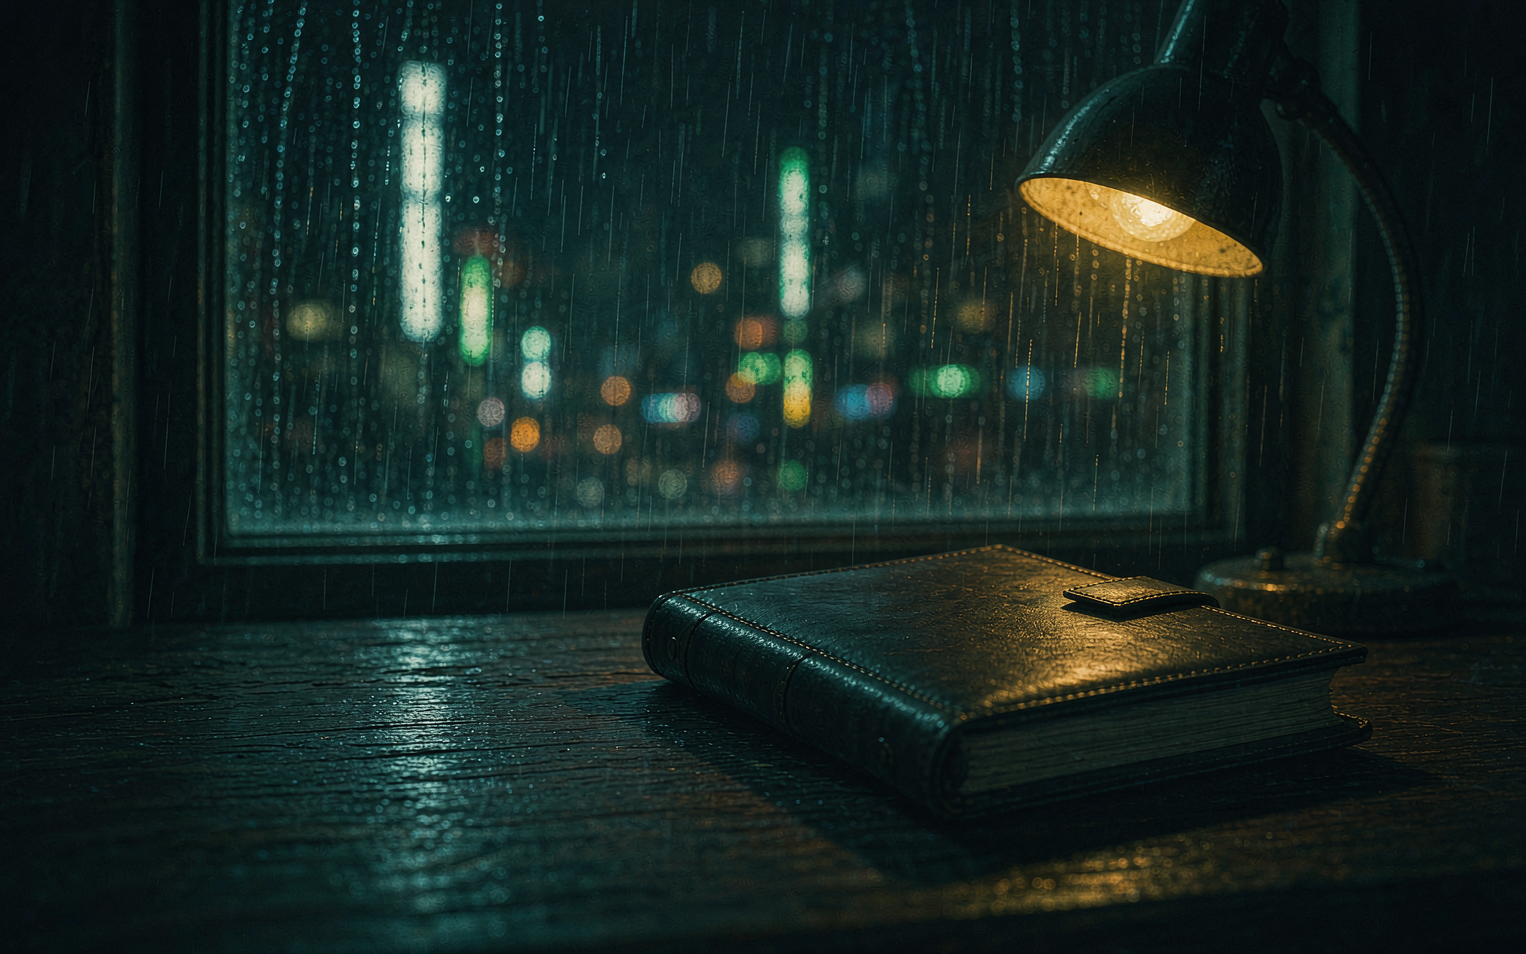
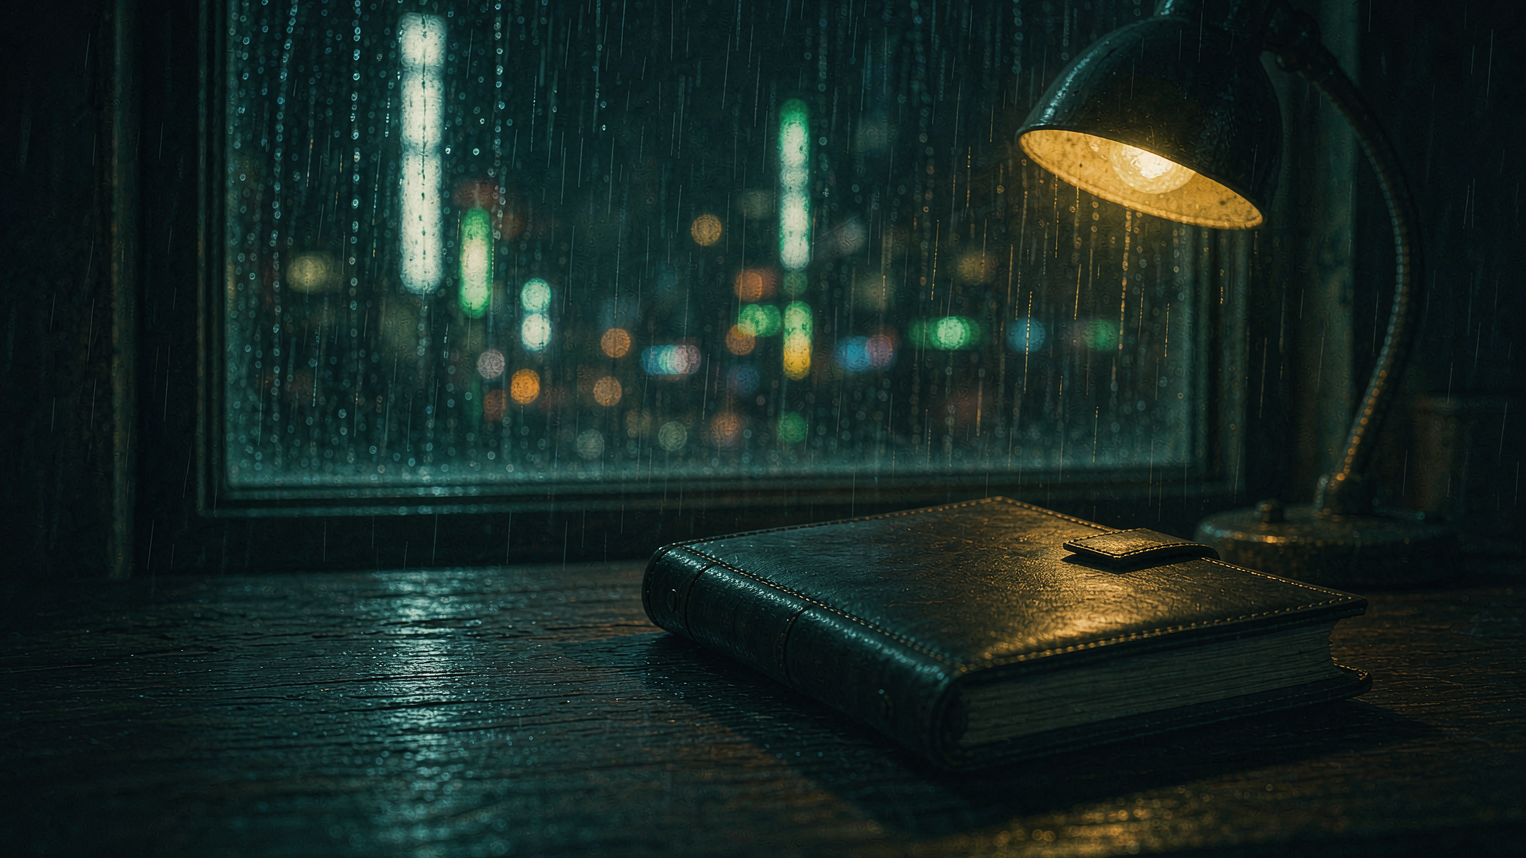
统一到 16:9：视口改 1280x720 + 14 张图全部裁成 16:9
现状原来是混的：
  图 7 张 16:10 / 6 张 16:9；游戏视口 1280x800（16:10）—— 两头都不一致

改成：
  project.godot: viewport 1280x720、window 1280x720（16:9）
  14 张背景图全部裁成 16:9（从中间取，保上下对称）

意外发现：**代码本来就按 16:9 写的** ——
launch.gd / prologue.gd 的缩放基准都是 size.y / 720.0，
room.gd 的尺寸是 720x405（正好 16:9），main.gd 一个写死尺寸都没有。
只有 project.godot 那个 800 是掉队的，所以 UI 一行没改就通过了。

⚠ 裁图会移动画面内容：热区的 UV 是按旧图算的就得重算。
本次只有序章包裹页一处（图从 992 裁到 892，顶部去掉 50px）：
  [0.43, 0.68, 0.14, 0.09] -> [0.43, 0.700, 0.14, 0.100]
主角房间那张只裁了 1px，热区不受影响。

图改完已跑 --import（不跑游戏里读的还是旧图）。
ART_ASSETS.md 的「待办」那节改成「已统一」，并记下这次的裁切经验。

冒烟测试 81 项全过，截图按 1280x720 重出，排版与热区都验过。

diff --git a/docs/ART_ASSETS.md b/docs/ART_ASSETS.md
@@ -18,29 +18,24 @@
 | 命名 | 全小写 + 下划线，见 §五 |
 | 文件位置 | 场景图 `assets/backgrounds/`，立绘 `assets/portraits/` |
 
-### ⚠ 为什么规定 16:9，而游戏现在不是
+### 为什么是 16:9（已统一，2026-09-16）
 
-现状有两处不一致，都必须收敛：
+统一之前有两处不一致，现在都收敛了：
 
-**1. 图的比例不统一** —— 现有 14 张里 **8 张 16:10、6 张 16:9**。
+**1. 图的比例** —— 原本 7 张 16:10、6 张 16:9 混着。
+已全部裁成 16:9（从中间取，上下对称；主体偏上的从底部多裁）。
 
-游戏用的是 `STRETCH_KEEP_ASPECT_COVERED`，两种都能铺满，只是**都会裁边**——
-16:10 的图在 16:9 窗口上被裁掉上下，构图就废了。**必须统一。**
+**2. 游戏视口** —— 原本是 （16:10）。
+已改成 ****，窗口也改成 。
 
-**2. 游戏视口是 16:10** —— `project.godot` 里是 `1280 × 800`。
+> 有意思的是：**代码本来就按 16:9 写的**—— /  的缩放基准
+> 都是 ， 的尺寸是 （正好 16:9），
+>  一个写死的尺寸都没有。**只有  那个 800 是掉队的。**
+> 所以改完 UI 一行都没动，直接通过。
 
-> **建议**：改成 `1280 × 720`（16:9），窗口也改 1280×720。
-> 这样画面、图、绝大多数显示器三者一致，录屏/直播也不会有黑边。
-> **代价**：UI 布局是按 800 高度调的，改完必须复验一遍
-> （跑 `PASS (81 checks)` + 重新出截图看排版）。
->
-> 在改视口之前，**新图一律先按 16:9 出**——16:9 的图在 16:10 视口上只是上下各裁一点，
-> 反过来（16:10 的图放进 16:9）会裁掉更多。
-
-### 待办：把 8 张 16:10 的图裁成 16:9
-
-| 文件 | 现在 | 处理 |
-| --- | --- | --- |
+**裁图会移动画面内容**：如果某个热区的 UV 是按旧图算的，必须重算。
+（本次只有序章包裹页那一处： → 。）
+--- | --- | --- |
 | `black_page_launch_v1.png` | 1526×954 | 裁成 1526×858 |
 | `black_page_prologue_door_package_v1.png` | 1586×992 | 裁成 1586×892 |
 | `black_page_prologue_door_v1.png` | 1526×954 | 裁成 1526×858 |
@@ -99,20 +94,20 @@ im.crop((0, 0, w, round(w * 9 / 16))).save(dst, "PNG")   # 从顶部取
 
 | 文件 | 尺寸 | 比例 | 用在哪 |
 | --- | --- | --- | --- |
-| `black_page_launch_v1.png` | 1526×954 | 16:10 ⚠ | 启动页背景 |
-| `black_page_room_v1.png` | 1672×941 | 16:9 | 主角出租屋·夜（最常看到的场景） |
-| `black_page_room_morning_v1.png` | 1672×941 | 16:9 | 主角出租屋·清晨（序章尾声） |
-| `black_page_scene_monitor.png` | 1526×954 | 16:10 ⚠ | 显示器：查新闻 / 公开档案 |
-| `black_page_scene_archive.png` | 1526×954 | 16:10 ⚠ | 档案室：查旧身份档案 |
-| `black_page_scene_phone.png` | 1526×954 | 16:10 ⚠ | 手机：聊天 / 通话 / 打捞语音 |
+| `black_page_launch_v1.png` | 1526×858 | 16:9 | 启动页背景 |
+| `black_page_room_v1.png` | 1672×940 | 16:9 | 主角出租屋·夜（最常看到的场景） |
+| `black_page_room_morning_v1.png` | 1672×940 | 16:9 | 主角出租屋·清晨（序章尾声） |
+| `black_page_scene_monitor.png` | 1526×858 | 16:9 | 显示器：查新闻 / 公开档案 |
+| `black_page_scene_archive.png` | 1526×858 | 16:9 | 档案室：查旧身份档案 |
+| `black_page_scene_phone.png` | 1526×858 | 16:9 | 手机：聊天 / 通话 / 打捞语音 |
 | `black_page_scene_badge.png` | 1536×864 | 16:9 | 员工证特写：核对物流公司员工证 |
 | `black_page_scene_photo.png` | 1536×864 | 16:9 | 旧合照：查阅晨曦福利院合照 |
 | `black_page_scene_meeting.png` | 1536×864 | 16:9 | 会面地点：赴约听许妍证词 |
 | `black_page_scene_interview.png` | 1536×864 | 16:9 | 问询室：向林墨交代来源 |
-| `black_page_prologue_notebook_v1.png` | 1526×954 | 16:10 ⚠ | 黑页（序章 + 第一章核对页角共用） |
-| `black_page_prologue_door_v1.png` | 1526×954 | 16:10 ⚠ | 序章：楼道 |
-| `black_page_prologue_door_package_v1.png` | 1586×992 | 16:10 ⚠ | 序章：门口的黑包裹 |
-| `black_page_prologue_package_v1.png` | 1672×941 | 16:9 | 序章：拆开的包裹 |
+| `black_page_prologue_notebook_v1.png` | 1526×858 | 16:9 | 黑页（序章 + 第一章核对页角共用） |
+| `black_page_prologue_door_v1.png` | 1526×858 | 16:9 | 序章：楼道 |
+| `black_page_prologue_door_package_v1.png` | 1586×892 | 16:9 | 序章：门口的黑包裹 |
+| `black_page_prologue_package_v1.png` | 1672×940 | 16:9 | 序章：拆开的包裹 |
 
 ### 立绘（10 张）
 
